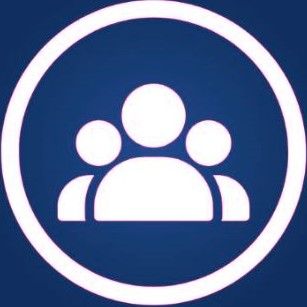
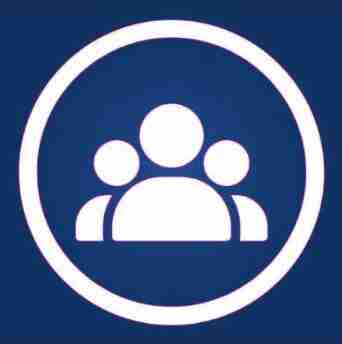
Updated chat features and dp

diff --git a/src/components/screens/IndividualChatPage.tsx b/src/components/screens/IndividualChatPage.tsx
@@ -15,6 +15,7 @@ import {
 } from "@/helpers/ChatHelper";
 import { MessagesSkeleton } from "../shared/Skeletons";
 import Link from "next/link";
+// import io from "socket.io-client";
 
 interface Sender {
   _id: string;
@@ -56,6 +57,10 @@ interface Message {
   updatedAt: string;
   __v: number;
 }
+
+// const ENDPOINT = "https://info-hub-peach.vercel.app/"
+// const ENDPOINT = "http://localhost:3000/";
+// let socket, selectedChatCompare;
 
 export default function IndividualChatPage({ chatId }: { chatId: string }) {
   const router = useRouter();
@@ -145,6 +150,10 @@ export default function IndividualChatPage({ chatId }: { chatId: string }) {
     }
   }, [userData._id, chatId]);
 
+  // useEffect(() => {
+  //   socket = io(ENDPOINT);
+  // });
+
   const sendMessage = async () => {
     if (message === "") {
       return;
@@ -165,6 +174,7 @@ export default function IndividualChatPage({ chatId }: { chatId: string }) {
 
       if (response.ok) {
         const responseData = await response.json();
+        setAllMessages([...allMessages, responseData?.data]);
       } else {
         const responseData = await response.json();
         router.push("/error");
@@ -173,6 +183,8 @@ export default function IndividualChatPage({ chatId }: { chatId: string }) {
     } catch (error: any) {
       console.log("Error during sending message", error);
       router.push("/error");
+      setSendMessageLoading(false);
+    } finally {
       setSendMessageLoading(false);
     }
   };
@@ -217,7 +229,7 @@ export default function IndividualChatPage({ chatId }: { chatId: string }) {
             width={40}
             height={40}
             className="cursor-pointer object-contain ml-1"
-            onClick={() => router.back()}
+            onClick={() => router.push("/chats")}
           />
           <Link
             href={`/profile/${getChatUserId()}`}
@@ -285,15 +297,36 @@ export default function IndividualChatPage({ chatId }: { chatId: string }) {
               setMessage(e.target.value);
             }}
           />
-          <Button className="ml-2 p-2" onClick={sendMessage}>
-            <Image
-              src="/assets/share.svg"
-              alt="send"
-              width={40}
-              height={40}
-              className="cursor-pointer object-contain rotate-45"
-            />
-          </Button>
+          {!sendMessageLoading ? (
+            <Button className="ml-2 p-2" onClick={sendMessage}>
+              <Image
+                src="/assets/share.svg"
+                alt="send"
+                width={40}
+                height={40}
+                className="cursor-pointer object-contain rotate-45"
+              />
+            </Button>
+          ) : (
+            <Button className="ml-2 p-2">
+              <svg
+                aria-hidden="true"
+                className="inline w-7 h-7 text-gray-200 animate-spin dark:text-gray-600 fill-purple-600"
+                viewBox="0 0 100 101"
+                fill="none"
+                xmlns="http://www.w3.org/2000/svg"
+              >
+                <path
+                  d="M100 50.5908C100 78.2051 77.6142 100.591 50 100.591C22.3858 100.591 0 78.2051 0 50.5908C0 22.9766 22.3858 0.59082 50 0.59082C77.6142 0.59082 100 22.9766 100 50.5908ZM9.08144 50.5908C9.08144 73.1895 27.4013 91.5094 50 91.5094C72.5987 91.5094 90.9186 73.1895 90.9186 50.5908C90.9186 27.9921 72.5987 9.67226 50 9.67226C27.4013 9.67226 9.08144 27.9921 9.08144 50.5908Z"
+                  fill="currentColor"
+                />
+                <path
+                  d="M93.9676 39.0409C96.393 38.4038 97.8624 35.9116 97.0079 33.5539C95.2932 28.8227 92.871 24.3692 89.8167 20.348C85.8452 15.1192 80.8826 10.7238 75.2124 7.41289C69.5422 4.10194 63.2754 1.94025 56.7698 1.05124C51.7666 0.367541 46.6976 0.446843 41.7345 1.27873C39.2613 1.69328 37.813 4.19778 38.4501 6.62326C39.0873 9.04874 41.5694 10.4717 44.0505 10.1071C47.8511 9.54855 51.7191 9.52689 55.5402 10.0491C60.8642 10.7766 65.9928 12.5457 70.6331 15.2552C75.2735 17.9648 79.3347 21.5619 82.5849 25.841C84.9175 28.9121 86.7997 32.2913 88.1811 35.8758C89.083 38.2158 91.5421 39.6781 93.9676 39.0409Z"
+                  fill="currentFill"
+                />
+              </svg>
+            </Button>
+          )}
         </div>
       </div>
     </>

diff --git a/src/components/screens/ChatPage.tsx b/src/components/screens/ChatPage.tsx
@@ -8,6 +8,7 @@ import { useRouter } from "next/navigation";
 import ChatBar from "../shared/ChatBar";
 import { ActivitySkeleton } from "../shared/Skeletons";
 import { CreateGroupChatPopUp } from "../shared/CreateGroupChatPopUp";
+import Image from "next/image";
 
 interface User {
   _id: string;
@@ -34,6 +35,7 @@ interface Chat {
   groupAdmin: ChatUser;
   createdAt: string;
   updatedAt: string;
+  latestMessage: { content: string; sender: ChatUser };
   __v: number;
 }
 
@@ -172,7 +174,18 @@ const ChatPage = () => {
     <section>
       {userLoading && <LoadingDots />}
       {!chatLoading && (
-        <div className="flex justify-end mb-3">
+        <div className="flex justify-between mb-3">
+          <Image
+            src="/assets/search-gray.svg"
+            alt="search"
+            width={24}
+            height={24}
+            className="object-contain ml-5 cursor-pointer"
+            onClick={() => {
+              router.push("/search");
+            }}
+          />
+
           <CreateGroupChatPopUp
             currentUserId={userData._id}
             setNewGrpCreated={setNewGrpCreated}
@@ -186,7 +199,12 @@ const ChatPage = () => {
       )}
       <div>
         {chats.map((chat: Chat) => (
-          <ChatBar chat={chat} key={chat._id} currentUserId={userData._id} />
+          <ChatBar
+            chat={chat}
+            key={chat._id}
+            currentUserId={userData._id}
+            currentUserName={userData.name}
+          />
         ))}
       </div>
 

diff --git a/src/components/shared/ChatBar.tsx b/src/components/shared/ChatBar.tsx
@@ -17,15 +17,18 @@ interface Chat {
   groupAdmin: ChatUser;
   createdAt: string;
   updatedAt: string;
+  latestMessage: { content: string; sender: ChatUser };
   __v: number;
 }
 
 export default function ChatBar({
   chat,
   currentUserId,
+  currentUserName,
 }: {
   chat: Chat;
   currentUserId: string;
+  currentUserName: string;
 }) {
   const updatedChatUsers = chat?.users.filter(
     (user) => user._id !== currentUserId
@@ -48,9 +51,23 @@ export default function ChatBar({
             />
           </div>
 
-          <h4 className="ml-2 cursor-pointer text-base-semibold text-light-1 max-md:w-[160px] max-md:truncate">
-            {chat?.isGroupChat ? chat?.chatName : updatedChatUsers[0].name}
-          </h4>
+          <div className=" flex flex-col">
+            <h4 className="ml-2 cursor-pointer text-base-semibold text-light-1 max-md:w-[160px] max-md:truncate">
+              {chat?.isGroupChat ? chat?.chatName : updatedChatUsers[0].name}
+            </h4>
+            <p className="text-gray-500 ml-2">
+              {chat?.latestMessage?.content ? (
+                <>
+                  {chat?.latestMessage?.sender?.name === currentUserName
+                    ? "You"
+                    : chat?.latestMessage?.sender?.name}
+                  : {chat?.latestMessage?.content}
+                </>
+              ) : (
+                <>No messages yet</>
+              )}
+            </p>
+          </div>
         </article>
       </Link>
     </>
